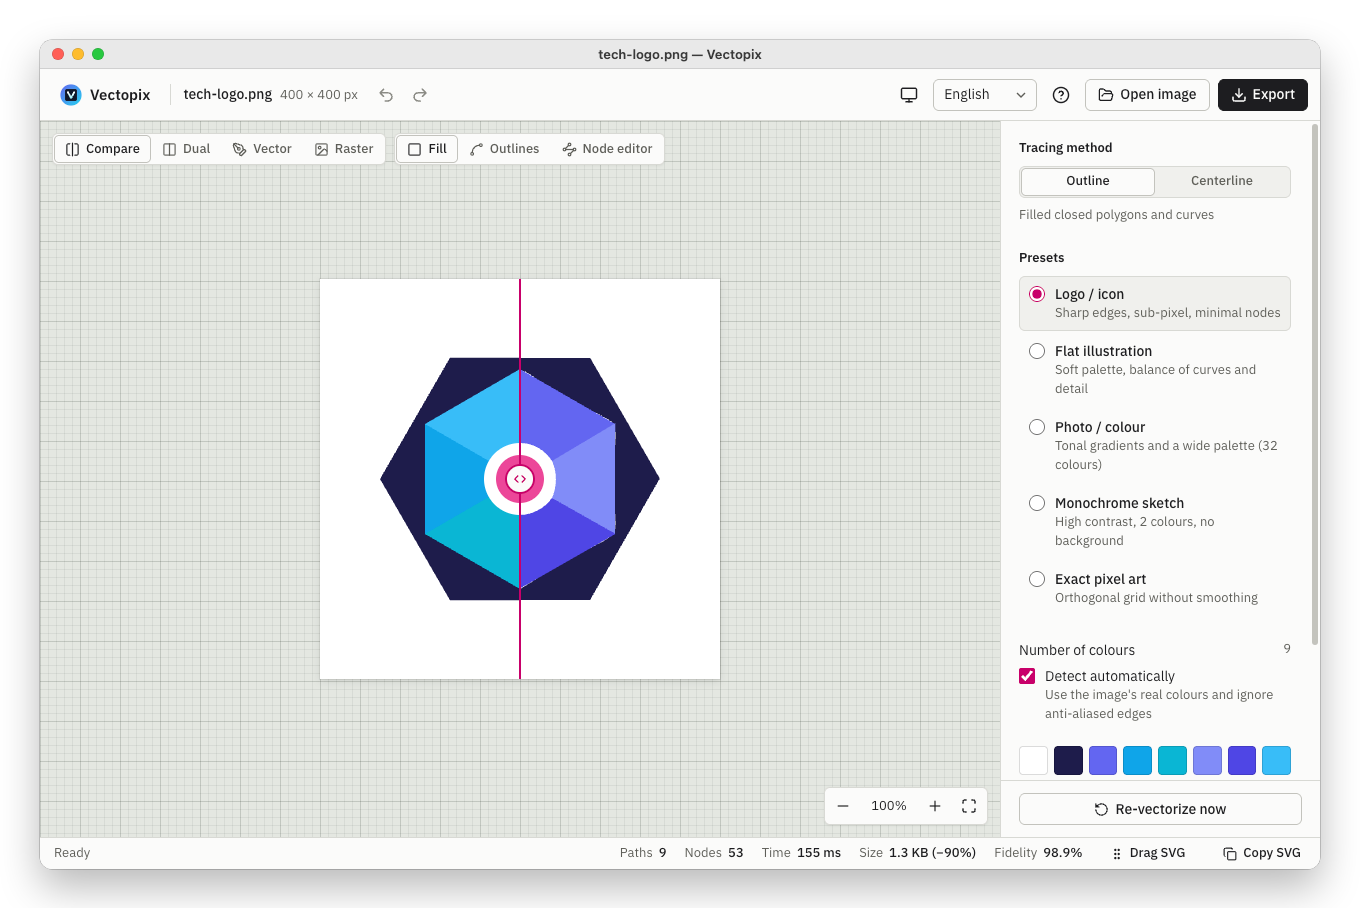
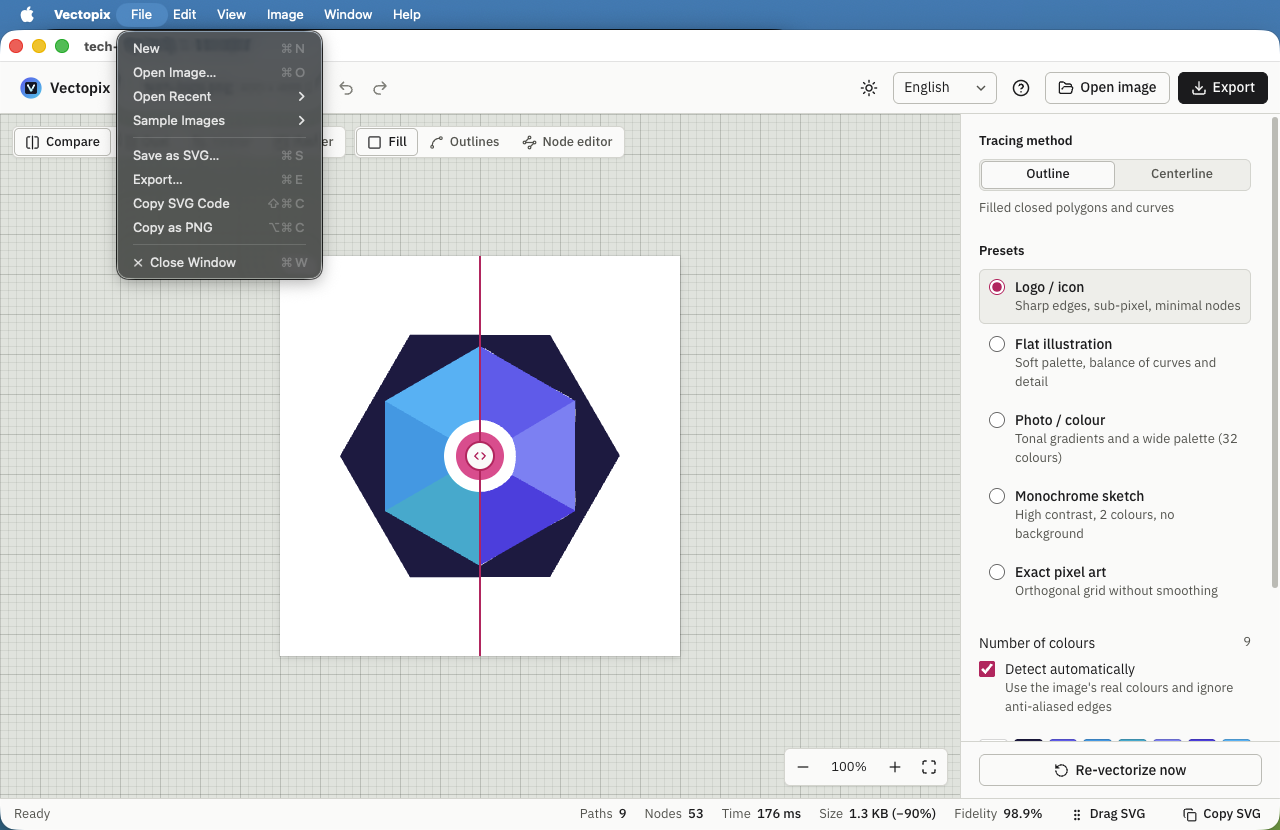
README: real screenshots of the desktop app on macOS

Changed region(s): [[0.0, 0.0, 1.0, 1.0], [0.9688, 0.753, 1.0, 0.7831], [0.375, 0.3012, 0.4062, 0.3313]]

diff --git a/README.es.md b/README.es.md
@@ -87,11 +87,11 @@
 
 <table>
   <tr>
-    <td width="50%"><img src="docs/es/desktop.png" alt="La app de escritorio de Vectopix en macOS, con la ventana titulada con la imagen vectorizada" /></td>
+    <td width="50%"><img src="docs/es/desktop.png" alt="La app de escritorio de Vectopix en macOS con el menú Archivo abierto" /></td>
     <td width="50%"><img src="docs/es/desktop-dark.png" alt="La app de escritorio en modo oscuro con los Ajustes abiertos" /></td>
   </tr>
   <tr>
-    <td align="center"><b>macOS</b>: menús nativos y la ventana con el nombre de la imagen</td>
+    <td align="center"><b>macOS</b>: la barra de menús nativa, en tu idioma</td>
     <td align="center"><b>Ajustes</b> (<kbd>⌘,</kbd>): idioma, apariencia y actualizaciones</td>
   </tr>
 </table>

diff --git a/README.md b/README.md
@@ -87,11 +87,11 @@
 
 <table>
   <tr>
-    <td width="50%"><img src="docs/en/desktop.png" alt="The Vectopix desktop app on macOS, its window named after the traced image" /></td>
+    <td width="50%"><img src="docs/en/desktop.png" alt="The Vectopix desktop app on macOS with its File menu open" /></td>
     <td width="50%"><img src="docs/en/desktop-dark.png" alt="The desktop app in dark mode with Settings open" /></td>
   </tr>
   <tr>
-    <td align="center"><b>macOS</b>: native menus, the window named after the image</td>
+    <td align="center"><b>macOS</b>: the native menu bar, in your language</td>
     <td align="center"><b>Settings</b> (<kbd>⌘,</kbd>): language, appearance and updates</td>
   </tr>
 </table>
